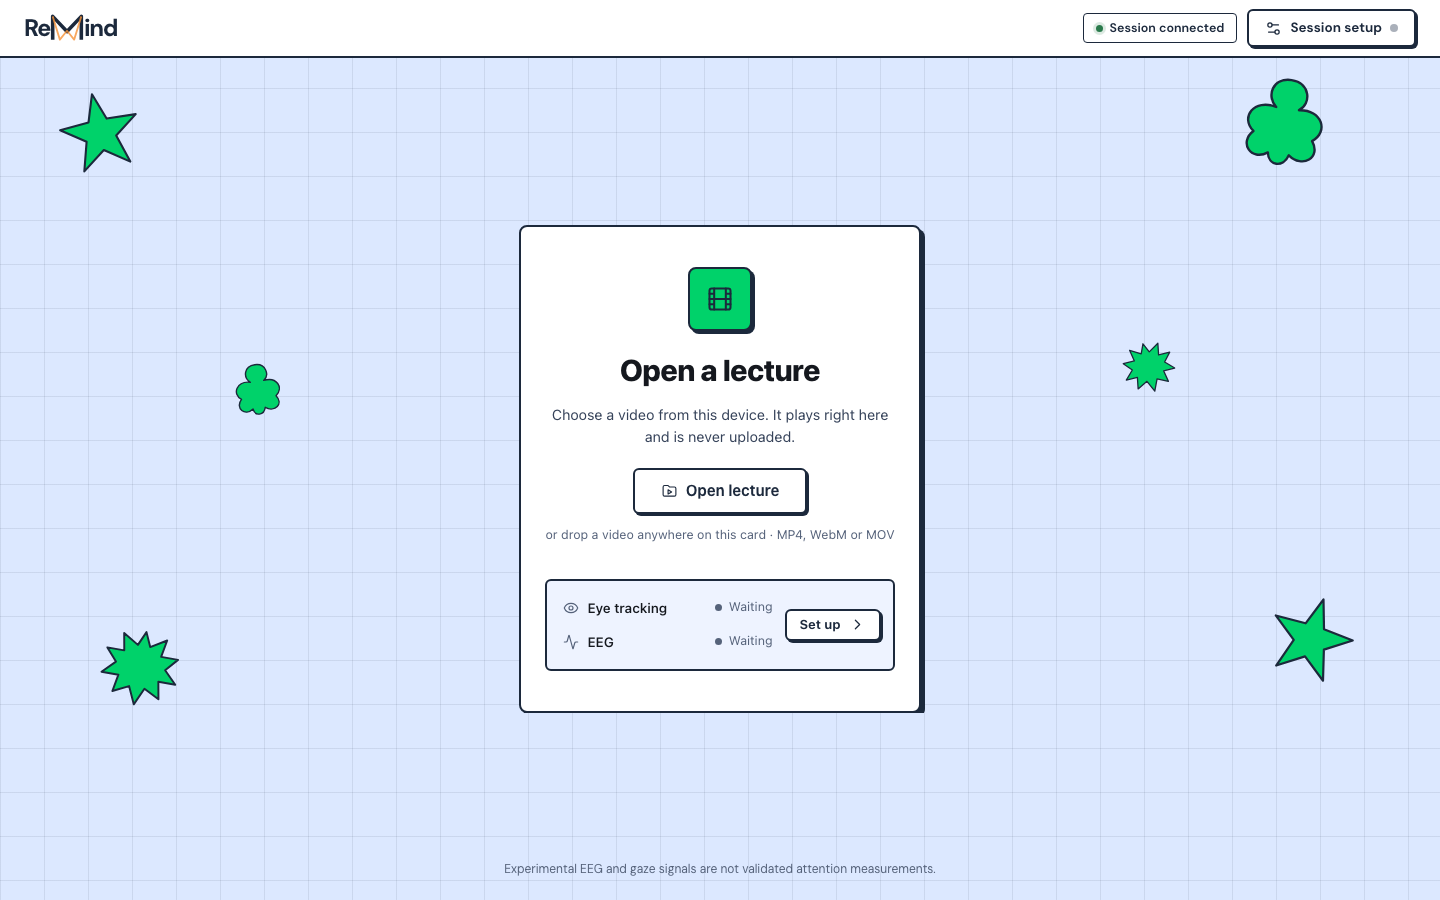
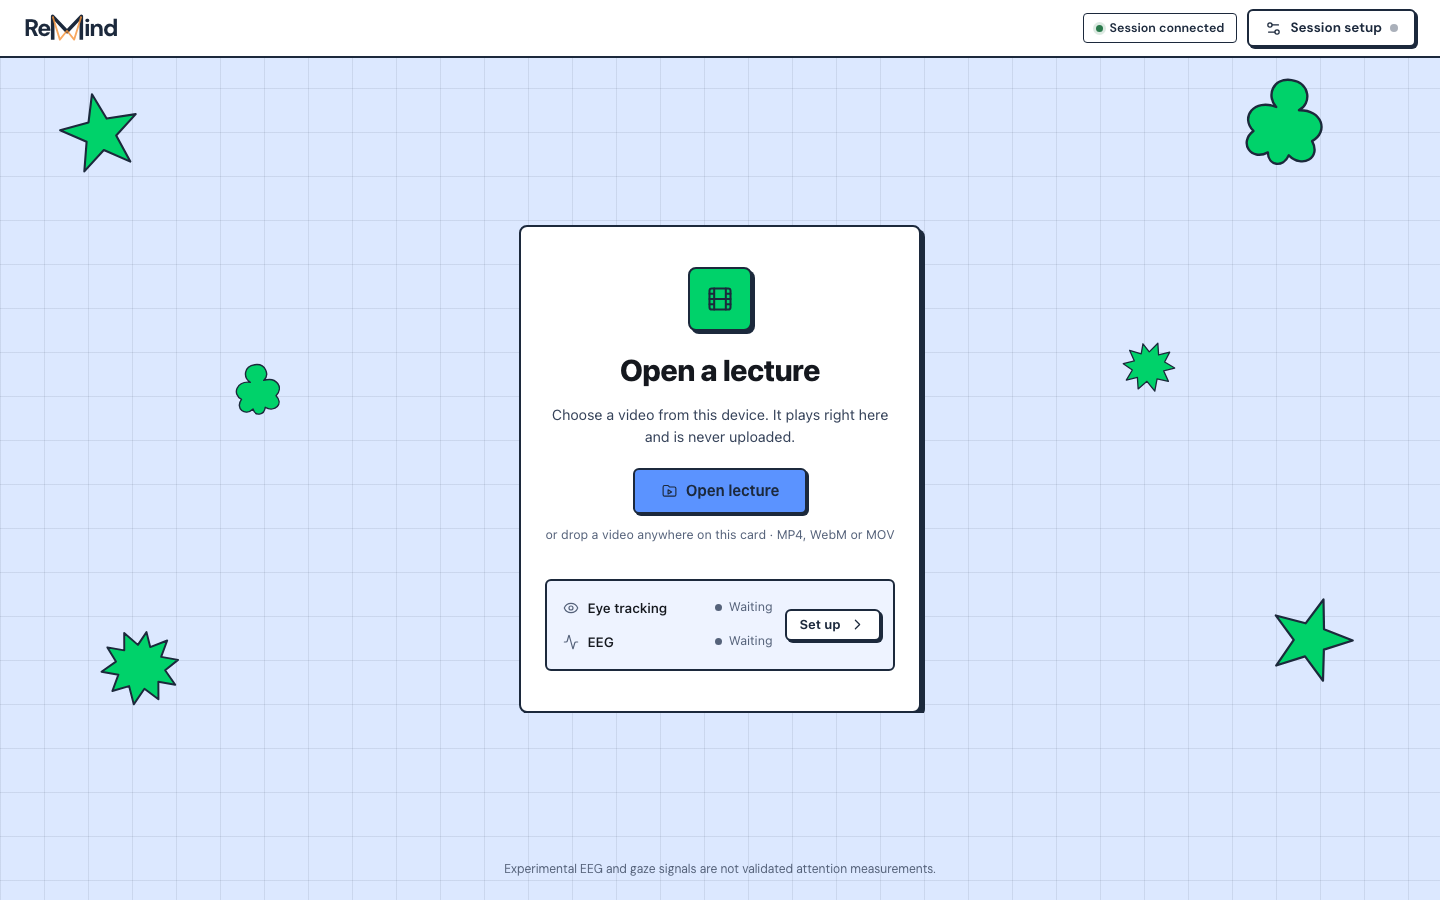
Variant B: pale blue grid page, solid surfaces, blue primary, green accent, bundled fonts, import decor

Changed region(s): [[0.4375, 0.4978, 0.5625, 0.5911]]

diff --git a/frontend/src/product/brutal.css b/frontend/src/product/brutal.css
@@ -161,3 +161,8 @@
 .decor svg { position: absolute; width: var(--s, 90px); height: auto; fill: var(--b-green, #00d26a); stroke: #1c293c; stroke-width: 2.5; stroke-linejoin: round; }
 .app-shell[data-design='brutal'] .topbar, .app-shell[data-design='brutal'] .workspace, .app-shell[data-design='brutal'] .page-footer { position: relative; z-index: 1; }
 @media (max-width: 760px) { .decor svg:nth-child(n+4) { display: none; } }
+
+/* Primary actions are blue (specificity raised above the generic tactile-control rule). */
+.app-shell[data-design='brutal'][data-design] :is(.btn.btn--primary, .button.button--primary, .import__action .lp-open):not(:disabled) { background: var(--b-blue); color: var(--b-ink); }
+.app-shell[data-design='brutal'][data-design] :is(.btn.btn--primary, .button.button--primary, .import__action .lp-open):hover:not(:disabled) { background: var(--b-blue-hover); }
+.app-shell[data-design='brutal'][data-design] .moment-rail { width: fit-content; max-width: 100%; }

diff --git a/HANDOFF.md b/HANDOFF.md
@@ -94,7 +94,8 @@ Known: Qt GUI teardown crash in CI is gated on JUnit; bookmarks do not survive a
 
 - Owner: Rohan's Claude owns final composition and visual design (frontend/src/product/, LecturePlayer styling).
 - Variant A (default, preserved): dark stage + tabbed side panel (Transcript / Moments / Attention), import card when empty, setup modal.
-- Variant B: restrained neo-brutalist treatment of the loaded screen, opt-in with `?design=brutal` (frontend/src/product/brutal.css). Refs: bergside/awesome-design-skills `neobrutalism` (tokens) and neobrutalism.dev (button/tabs/badge/alert/slider structure via its registry; theme tokens were not retrievable, so shadow offsets and radii are our own choice). Delete brutal.css and the `data-design` line in App.tsx to drop it.
+- Variant B: neo-brutalist treatment, opt-in with `?design=brutal` (frontend/src/product/brutal.css): pale blue page with a square grid, solid white surfaces behind transcript/moments/graph, 2px black borders, 4px offset shadows, blue primary buttons, green accent, DM Sans + JetBrains Mono bundled via @fontsource-variable (loaded only for this variant), decorative shapes on the empty/import screen only. Refs: bergside/awesome-design-skills `neobrutalism` (tokens) and neobrutalism.dev (button/tabs/badge/alert/slider structure via its registry; theme tokens were not retrievable, so shadow offsets and radii are our own choice). Delete brutal.css, the Decor component/font imports and the `data-design` line in App.tsx to drop it (and the two @fontsource-variable deps).
+- Checkpoint: worktree `$TMPDIR/wa` (= /private/var/folders/kp/ydprm62x08l_95pr978gc0xm0000gn/T/wa), branch `design-2`, PR #71 unmerged; see `git log -1` for the exact commit. Launch: `cd frontend && npm install && npm run dev -- --rehearsal` from the repo root (`npm run dev -- --rehearsal`), open the printed #pair= link, add `?design=brutal` before the `#`. Checks run at this checkpoint: lint, 149 unit tests, vite build, main-eeg e2e (8), earlier full suites (infra 23, player 5, main-product 1, live-product 6, rehearsal 1, setup 6). Remaining: re-run the full e2e set after rebasing, check CI on PR #71, get the lead's A/B decision, then delete the losing variant; real-camera gaze accuracy is untested.
 - Usability fixes: narrow controls dock under the video; camera failures are classified from the engine's real cause (permission / missing / busy / unknown) and an unrecognised failure is never described as a permission denial; "Annie's model" wording removed; setup is shorter with technical text under details; graph/calibration messages follow the actual HTTP status (409/404/501/503 = no compatible score source; 401/403 = pairing rejected; otherwise unreachable/retrying).
 - Verified (automated): calibration dot centres match requested viewport coordinates within 1 px at 1440x900, 1280x720, 390x844 with the setup dialog open (frontend/e2e/live/calibration-geometry.spec.ts, stand-in camera). NOT verified: real-camera gaze accuracy; that needs a person and a webcam.
 - E2E selector notes: moment cards need the Moments tab, graph/demo controls need the Attention tab.
